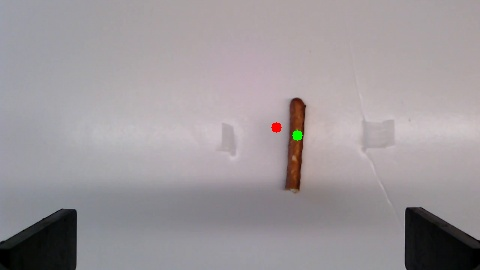
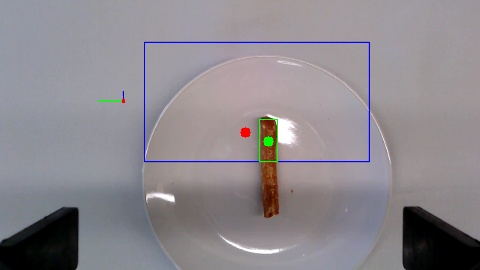
looks for pretzels on a white plate on a table

diff --git a/depth_capture/pretzels.py b/depth_capture/pretzels.py
@@ -16,6 +16,7 @@ from kortex_api.autogen.messages import Base_pb2
 from kortex_api.Exceptions.KServerException import KServerException
 from math import sqrt, inf, degrees, radians
 from std_msgs.msg import String
+import math
 
 # Constants for image processing
 NEW_WIDTH = 480
@@ -85,6 +86,44 @@ class ImageProcessor:
         ts = message_filters.ApproximateTimeSynchronizer([rgb_sub, depth_sub], 10, 0.1)
         ts.registerCallback(self.image_callback)
 
+        self.pretzels_angle = 0
+
+    
+    def calculate_pretzel_orientation(self, largest_brown_contour, image):
+        """
+        Calculate the orientation of the pretzel from its contour.
+        Returns: angle of rotation in radians
+        """
+        # Fit an ellipse to the contour (this method requires at least 5 points)
+        if len(largest_brown_contour) >= 5:
+            ellipse = cv2.fitEllipse(largest_brown_contour)
+            center, axes, angle = ellipse
+            cx, cy = int(center[0]), int(center[1])  # Center of the ellipse
+            major_axis_length = max(axes) / 2  # Half of the major axis length
+            minor_axis_length = min(axes) / 2  # Half of the minor axis length
+
+            # The angle is in degrees, convert it to radians
+            angle_rad = math.radians(angle)
+
+            # Draw the major axis (in the direction of the pretzel's orientation)
+            major_axis_x = int(cx + major_axis_length * math.cos(angle_rad))
+            major_axis_y = int(cy + major_axis_length * math.sin(angle_rad))
+            cv2.line(image, (cx, cy), (major_axis_x, major_axis_y), (0, 255, 0), 2)  # Green line for major axis
+
+            # Draw the minor axis (perpendicular to the major axis)
+            minor_axis_x = int(cx - minor_axis_length * math.sin(angle_rad))
+            minor_axis_y = int(cy + minor_axis_length * math.cos(angle_rad))
+            cv2.line(image, (cx, cy), (minor_axis_x, minor_axis_y), (255, 0, 0), 2)  # Blue line for minor axis
+
+            # Draw the center of the ellipse
+            cv2.circle(image, (cx, cy), 5, (0, 0, 255), -1)  # Red dot at the center
+
+            return angle_rad, center, angle
+        else:
+            return None, None, None
+
+        
+
     def image_callback(self, rgb_data, depth_data):
         try:
             cv_image = self.bridge.imgmsg_to_cv2(rgb_data, "bgr8")
@@ -96,36 +135,82 @@ class ImageProcessor:
         # Convert the image to the HSV color space
         hsv_image = cv2.cvtColor(cv_image, cv2.COLOR_BGR2HSV)
 
-        # Define the range of brown color in HSV
-        lower_brown = np.array([10, 100, 20])
-        upper_brown = np.array([20, 255, 200])
+        # Define the range of white color in HSV
+        lower_white = np.array([0, 0, 168])
+        upper_white = np.array([172, 111, 255])
 
         # Create a mask for the brown color
-        mask = cv2.inRange(hsv_image, lower_brown, upper_brown)
+        white_mask = cv2.inRange(hsv_image, lower_white, upper_white)
         
         
         # Find contours in the mask
-        contours, _ = cv2.findContours(mask, cv2.RETR_TREE, cv2.CHAIN_APPROX_SIMPLE)
+        contours, _ = cv2.findContours(white_mask, cv2.RETR_TREE, cv2.CHAIN_APPROX_SIMPLE)
 
         if contours:
             # Identify the largest contour
             largest_contour = max(contours, key=cv2.contourArea)
+            x, y, w, h = cv2.boundingRect(largest_contour)
 
-            # Calculate the center of the largest contour
-            M = cv2.moments(largest_contour)
-            if M["m00"] != 0:
-                cX = int(M["m10"] / M["m00"])
-                cY = int(M["m01"] / M["m00"])
+            # Draw the bounding box around the white contour (plate)
+            cv2.rectangle(cv_image, (x, y), (x + w, y + h), (255, 0, 0), 2)  # Blue bounding box
 
-                 # Draw a red dot at the center
-                cv2.circle(cv_image, (cX, cY), 5, (0, 0, 255), -1)
-                
-                # Scale the coordinates
-                height, width, _ = cv_image.shape
-                u = int(cX * NEW_WIDTH / width)
-                v = int(cY * NEW_HEIGHT / height)
-            else:
-                cX, cY = 0, 0
+            # Define the range of brown color in HSV
+            lower_brown = np.array([10, 100, 20])
+            upper_brown = np.array([30, 255, 200])
+
+            # Create a mask for the brown color within the bounding box of the plate
+            plate_region = hsv_image[y:y+h, x:x+w]
+            brown_mask = cv2.inRange(plate_region, lower_brown, upper_brown)
+
+            # Apply Gaussian blur to the mask to reduce noise
+            brown_mask = cv2.GaussianBlur(brown_mask, (5, 5), 0)
+
+            # Apply morphological operations to clean up the mask
+            kernel = np.ones((5, 5), np.uint8)
+            brown_mask = cv2.morphologyEx(brown_mask, cv2.MORPH_CLOSE, kernel)
+            brown_mask = cv2.morphologyEx(brown_mask, cv2.MORPH_OPEN, kernel)
+
+            # Find contours in the brown mask
+            brown_contours, _ = cv2.findContours(brown_mask, cv2.RETR_TREE, cv2.CHAIN_APPROX_SIMPLE)
+
+            if brown_contours:
+
+                # Identify the largest brown contour
+                largest_brown_contour = max(brown_contours, key=cv2.contourArea)
+
+                # Calculate the center and orientation of the largest brown contour
+                angle_rad, pretzel_center, pretzel_angle = self.calculate_pretzel_orientation(largest_brown_contour, cv_image)
+
+                if pretzel_center is not None:
+                    # Calculate orientation of the pretzel and adjust the robot's end-effector accordingly
+                    rospy.loginfo(f"Orientation of the pretzel: {math.degrees(angle_rad)} degrees")
+                    self.pretzel_angle = angle_rad
+
+                    # Adjust the robot's orientation based on the pretzel orientation
+                    robot_orientation_quaternion = tf.transformations.quaternion_from_euler(0, 0, angle_rad)
+                    rospy.loginfo(f"Robot Quaternion for adjustment: {robot_orientation_quaternion}")
+
+                # Calculate the center of the largest contour
+                M = cv2.moments(largest_brown_contour)
+                if M["m00"] != 0:
+                    cX = int(M["m10"] / M["m00"]) + x
+                    cY = int(M["m01"] / M["m00"]) + y
+
+                    # Draw a red dot at the center
+                    cv2.circle(cv_image, (cX, cY), 5, (0, 0, 255), -1)
+
+                    # Calculate the bounding box for the largest brown contour
+                    bx, by, bw, bh = cv2.boundingRect(largest_brown_contour)
+
+                    # Draw the bounding box around the brown pretzel
+                    cv2.rectangle(cv_image, (x + bx, y + by), (x + bx + bw, y + by + bh), (0, 255, 0), 2)
+                    
+                    # Scale the coordinates
+                    height, width, _ = cv_image.shape
+                    u = int(cX * NEW_WIDTH / width)
+                    v = int(cY * NEW_HEIGHT / height)
+                else:
+                    cX, cY = 0, 0
 
             # Use the center coordinates (cX, cY) as needed
             rospy.loginfo(f"Center of the pretzel: ({cX}, {cY})")
@@ -242,10 +327,13 @@ class ImageProcessor:
             print("Angle (radians): ", angle)
             euler_angles = tf.transformations.euler_from_quaternion(rot)
 
+            #Pretzel orientation
+            #euler_angles[0] = self.pretzel_angle
+
             print("Euler Angles: ", degrees(euler_angles[0]), degrees(euler_angles[1]), degrees(euler_angles[2]))
 
             #Publish the robot point and euler angles
-            object_location = "x: " + str(robot_point[0][3]) + " y: " + str(robot_point[1][3]) + " z: " + str(robot_point[2][3]) + " roll: " + str(degrees(euler_angles[0])) + " pitch: " + str(degrees(euler_angles[1])) + " yaw: " + str(degrees(euler_angles[2]))
+            object_location = "x: " + str(robot_point[0][3]) + " y: " + str(robot_point[1][3]) + " z: " + str(robot_point[2][3]) + " roll: " + str(degrees(euler_angles[0])) + " pitch: " + str(degrees(euler_angles[1])) + " yaw: " + str(degrees(self.pretzel_angle))
             rospy.loginfo("Publishing object location: %s", object_location)
             pub.publish(object_location)
 
